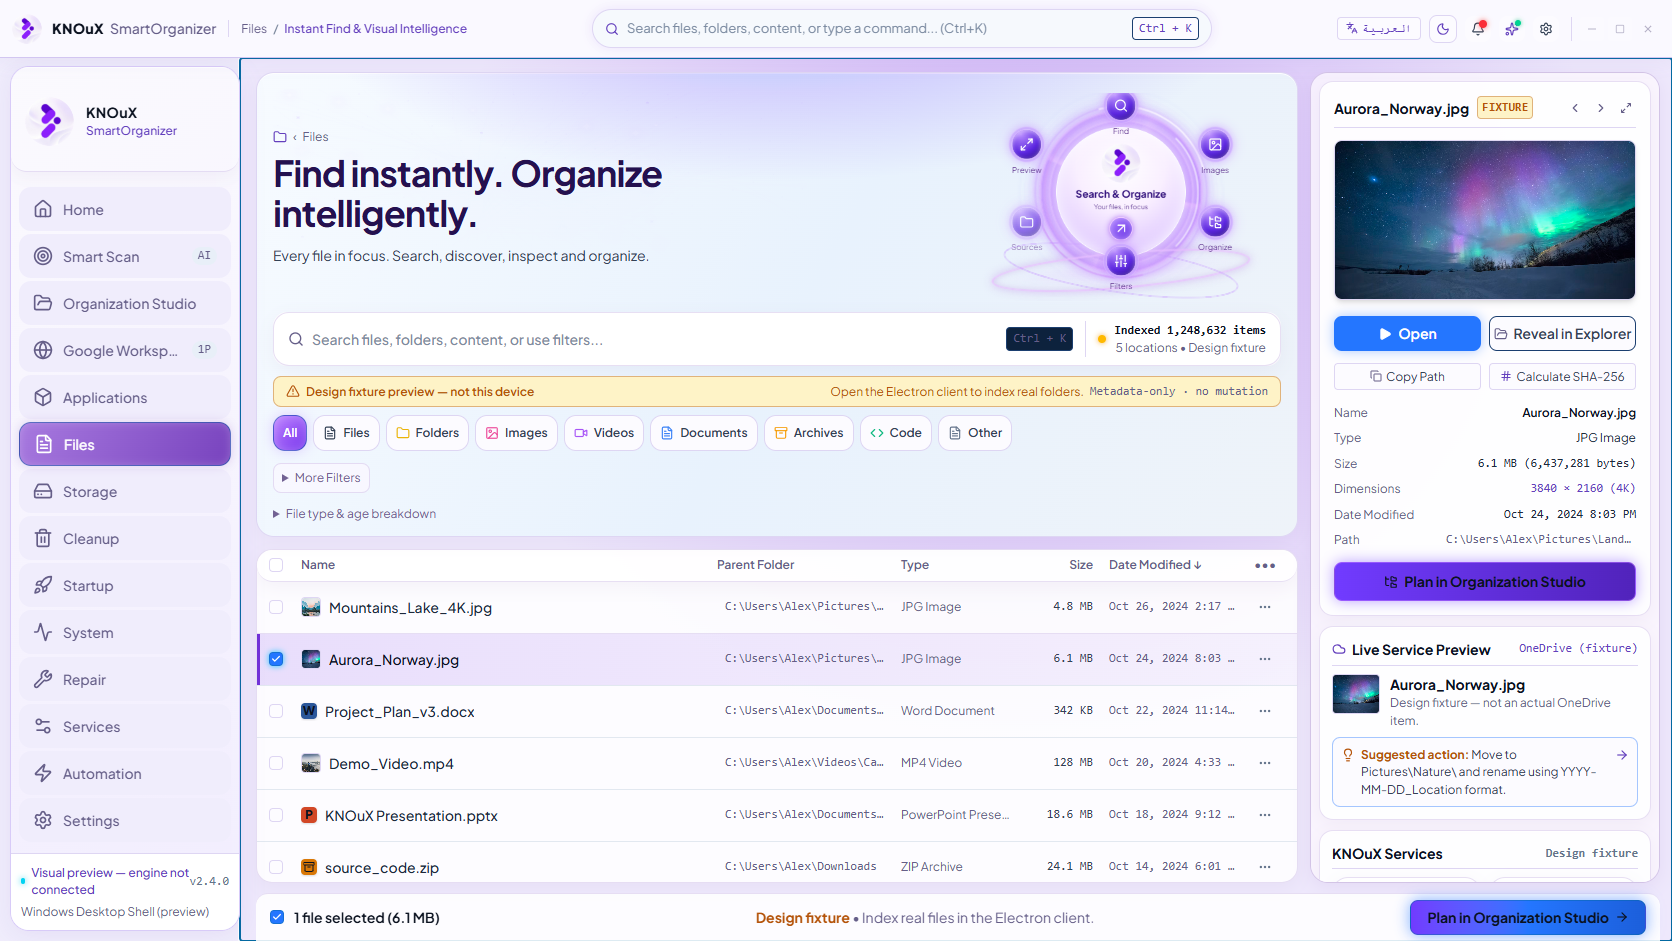
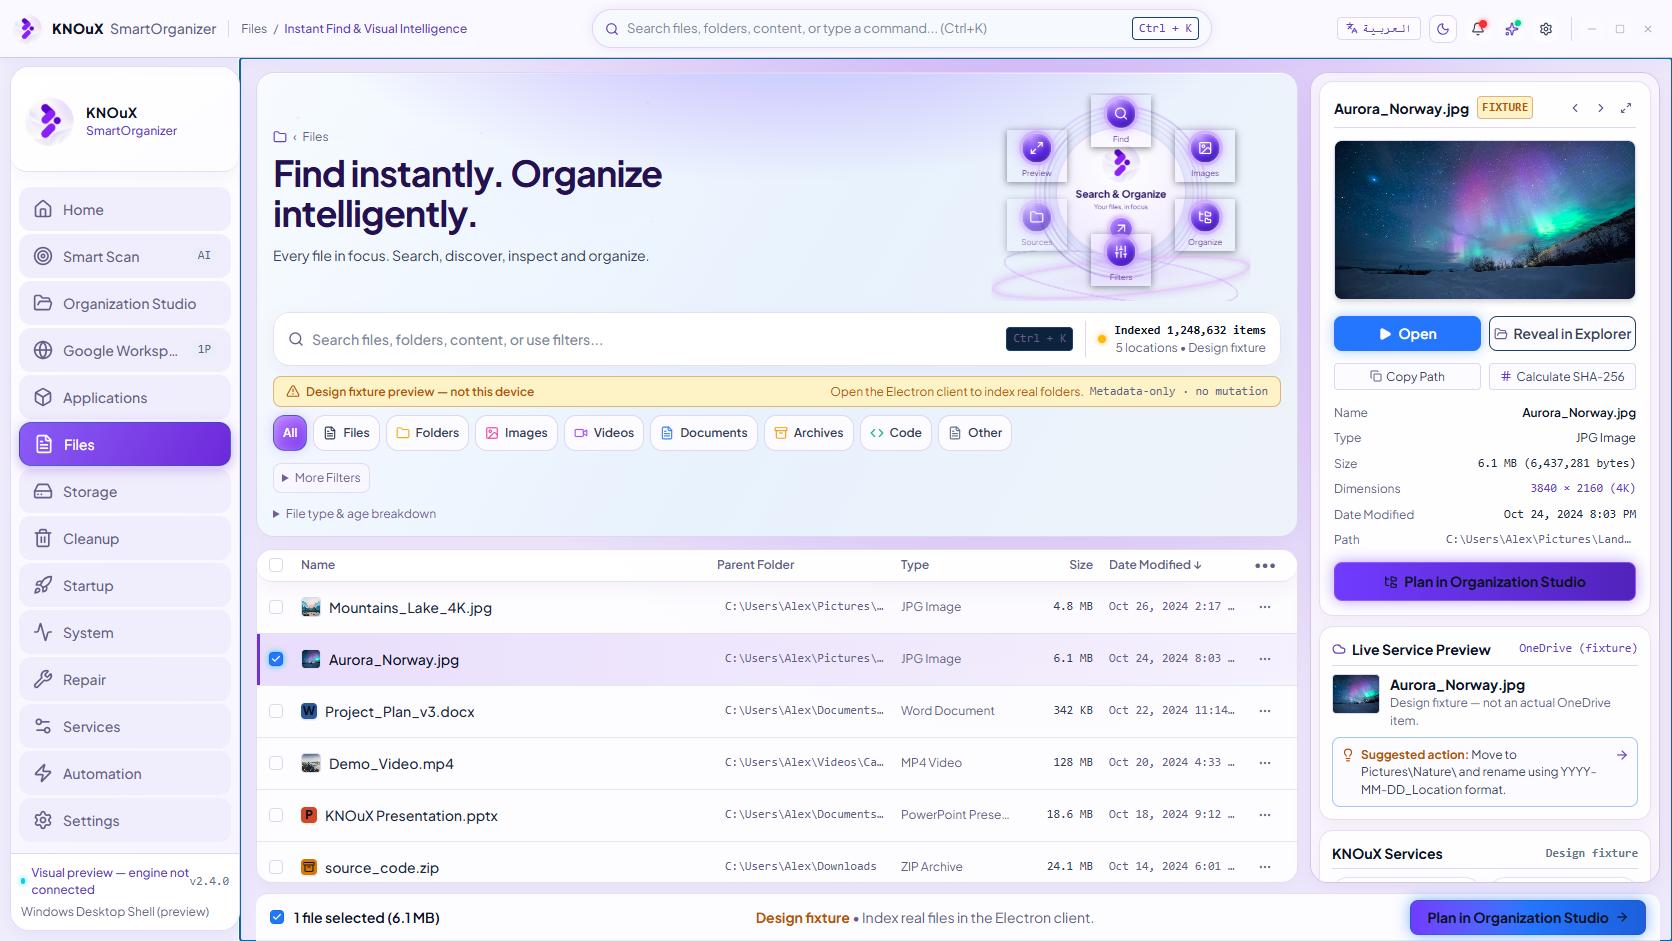
feat(visual): restrain the shared orbital dial and capture the Files pair
The Files, Scan and Applications shells reuse the generic .knx-orbit dial,
which reference-controls.css painted as a white disc inside a conic-gradient
ring with a 42px halo. That is the same fog the Studio dial had, so the
restraint layer now covers both orbit families.

The night core becomes a navy instrument face with one thin ring and a soft
selection halo; daylight keeps a light face without the blown-out halo. Orbit
destinations, controls and behaviour are unchanged, and the dial still does not
displace the search field or cover any input.

Files keeps its honest state: the fixture banner, "Metadata-only - no mutation",
"Open the Electron client to index real folders" and the per-row FIXTURE badge
are untouched, so no indexed count or OneDrive item reads as measured.

diff --git a/apps/gemini-ui/src/visual/reference-restraint.css b/apps/gemini-ui/src/visual/reference-restraint.css
@@ -157,6 +157,53 @@ html[data-theme='light'] .visual-sprint[data-reference-shell='true'] .knx-refere
 }
 
 /* ==========================================================================
+   The shared .knx-orbit dial (Files, Scan, Applications, ...) — reference-controls
+   paints its core as a white disc with a conic ring and 42px halo.
+   ========================================================================== */
+
+.visual-sprint[data-reference-shell='true'] .knx-orbit-track {
+  border: 1px solid rgba(150, 128, 235, 0.45);
+  background: transparent;
+  box-shadow: none;
+}
+
+.visual-sprint[data-reference-shell='true'] .knx-orbit-track::after {
+  inset: -8px;
+  border-top-color: rgba(196, 169, 255, 0.75);
+  border-bottom-color: rgba(130, 100, 220, 0.5);
+  box-shadow: none;
+}
+
+.visual-sprint[data-reference-shell='true'] .knx-orbit-core {
+  background: radial-gradient(circle at 50% 28%, #16203c 0%, #0e1730 55%, #0a1124 100%) !important;
+  border-color: rgba(160, 136, 245, 0.5);
+  box-shadow: inset 0 1px 0 rgba(255, 255, 255, 0.06), 0 0 0 6px rgba(126, 98, 230, 0.07) !important;
+  color: #eef1ff !important;
+}
+
+.visual-sprint[data-reference-shell='true'] .knx-orbit-tool {
+  border-color: rgba(140, 122, 220, 0.35);
+  box-shadow: 0 2px 10px rgba(2, 5, 14, 0.45);
+}
+
+.visual-sprint[data-reference-shell='true'] .knx-orbit-tool.is-active {
+  border-color: rgba(167, 139, 250, 0.8);
+  box-shadow: 0 0 0 3px rgba(167, 139, 250, 0.14);
+}
+
+/* Daylight dial keeps a light face, but without the blown-out halo. */
+html[data-theme='light'] .visual-sprint[data-reference-shell='true'] .knx-orbit-core {
+  background: radial-gradient(circle at 50% 30%, #ffffff 0%, #f7f4ff 46%, #ece5ff 100%) !important;
+  border-color: #d9cdfb;
+  box-shadow: 0 8px 22px rgba(96, 76, 210, 0.14) !important;
+  color: #2a1a63 !important;
+}
+
+html[data-theme='light'] .visual-sprint[data-reference-shell='true'] .knx-orbit-track {
+  border-color: rgba(140, 116, 220, 0.35);
+}
+
+/* ==========================================================================
    Sidebar — the references show a navy rail with a violet active pill,
    not a violet panel. Studio duplicates this rule, so both are covered.
    ========================================================================== */
